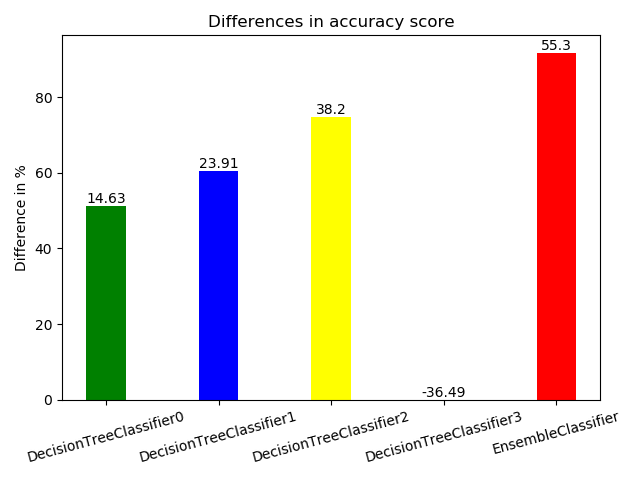
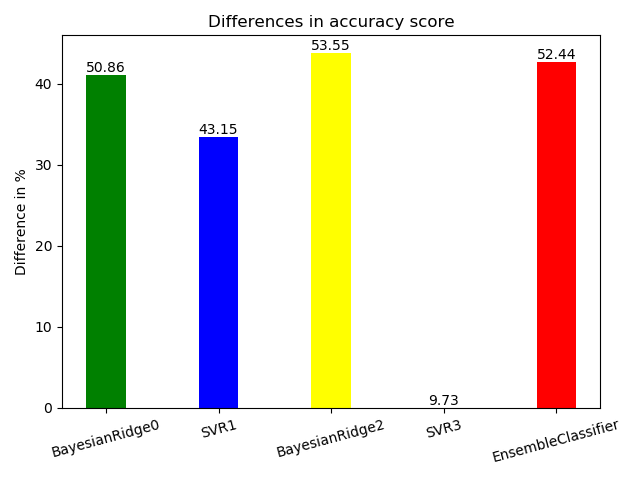
added readme.md

diff --git a/main.py b/main.py
@@ -15,26 +15,33 @@ from EnumStorage import Model
 
 
 average = [Ensemble.ARITHMETIC]
-
-models_list = [[Model.DECISION_TREE, Model.DECISION_TREE, Model.DECISION_TREE, Model.DECISION_TREE],
-               [Model.DECISION_TREE, Model.DECISION_TREE, Model.DECISION_TREE, Model.DECISION_TREE],
-               [Model.DECISION_TREE, Model.DECISION_TREE, Model.DECISION_TREE, Model.DECISION_TREE],
-               [Model.K_NEIGHBORS, Model.K_NEIGHBORS, Model.K_NEIGHBORS, Model.K_NEIGHBORS],
-               [Model.K_NEIGHBORS, Model.K_NEIGHBORS, Model.K_NEIGHBORS, Model.K_NEIGHBORS],
+models_list = [[Model.K_NEIGHBORS, Model.BAYESIAN_RIDGE, Model.DECISION_TREE, Model.K_NEIGHBORS],
+               [Model.DECISION_TREE, Model.K_NEIGHBORS, Model.SVR, Model.DECISION_TREE],
+               [Model.BAYESIAN_RIDGE, Model.SVR, Model.BAYESIAN_RIDGE, Model.SVR],
+               [Model.SVR, Model.BAYESIAN_RIDGE, Model.DECISION_TREE, Model.K_NEIGHBORS],
+               [Model.K_NEIGHBORS, Model.DECISION_TREE, Model.DECISION_TREE, Model.K_NEIGHBORS],
                ]
 
+
+# models_list = [[Model.DECISION_TREE, Model.DECISION_TREE, Model.DECISION_TREE, Model.DECISION_TREE],
+#                [Model.DECISION_TREE, Model.DECISION_TREE, Model.K_NEIGHBORS, Model.K_NEIGHBORS],
+#                [Model.K_NEIGHBORS, Model.K_NEIGHBORS, Model.DECISION_TREE, Model.DECISION_TREE],
+#                [Model.DECISION_TREE, Model.K_NEIGHBORS, Model.K_NEIGHBORS, Model.DECISION_TREE],
+#                [Model.K_NEIGHBORS, Model.K_NEIGHBORS, Model.K_NEIGHBORS, Model.K_NEIGHBORS],
+#                ]
+
 labels_group = [
-    [LabelMapper.bedrooms, LabelMapper.bathrooms, LabelMapper.sqft_above, LabelMapper.sqft_living15],
-    [LabelMapper.sqft_living, LabelMapper.sqft_above, LabelMapper.sqft_living15, LabelMapper.grade],
-    [LabelMapper.yr_built, LabelMapper.long, LabelMapper.grade, LabelMapper.floors],
-    [LabelMapper.sqft_lot, LabelMapper.sqft_lot15, LabelMapper.floors, LabelMapper.waterfront]
+    [LabelMapper.bedrooms, LabelMapper.bathrooms, LabelMapper.sqft_living, LabelMapper.sqft_lot],
+    [LabelMapper.sqft_basement, LabelMapper.sqft_above, LabelMapper.sqft_living15, LabelMapper.sqft_lot15],
+    [LabelMapper.yr_built, LabelMapper.yr_renovated, LabelMapper.condition, LabelMapper.grade],
+    [LabelMapper.zipcode, LabelMapper.long, LabelMapper.lat, LabelMapper.waterfront]
 ]
 
 split_dataset = [
-    SplitDataset.NONE,
-    SplitDataset.BAGGING,
     SplitDataset.AGENT,
-    SplitDataset.BAGGING,
+    SplitDataset.AGENT,
+    SplitDataset.AGENT,
+    SplitDataset.AGENT,
     SplitDataset.AGENT,
     ]
 

diff --git a/README.md b/README.md
@@ -1,0 +1,1 @@
+# Ensemble learning in multi agent system
